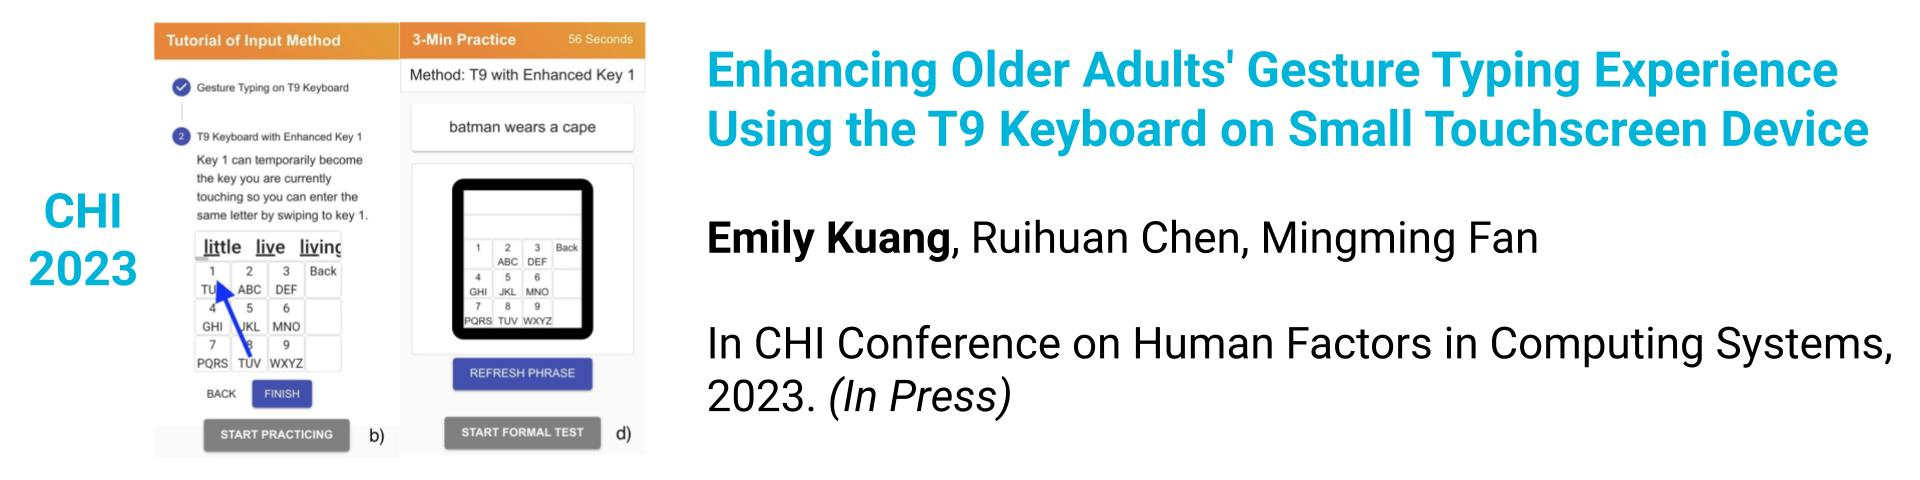
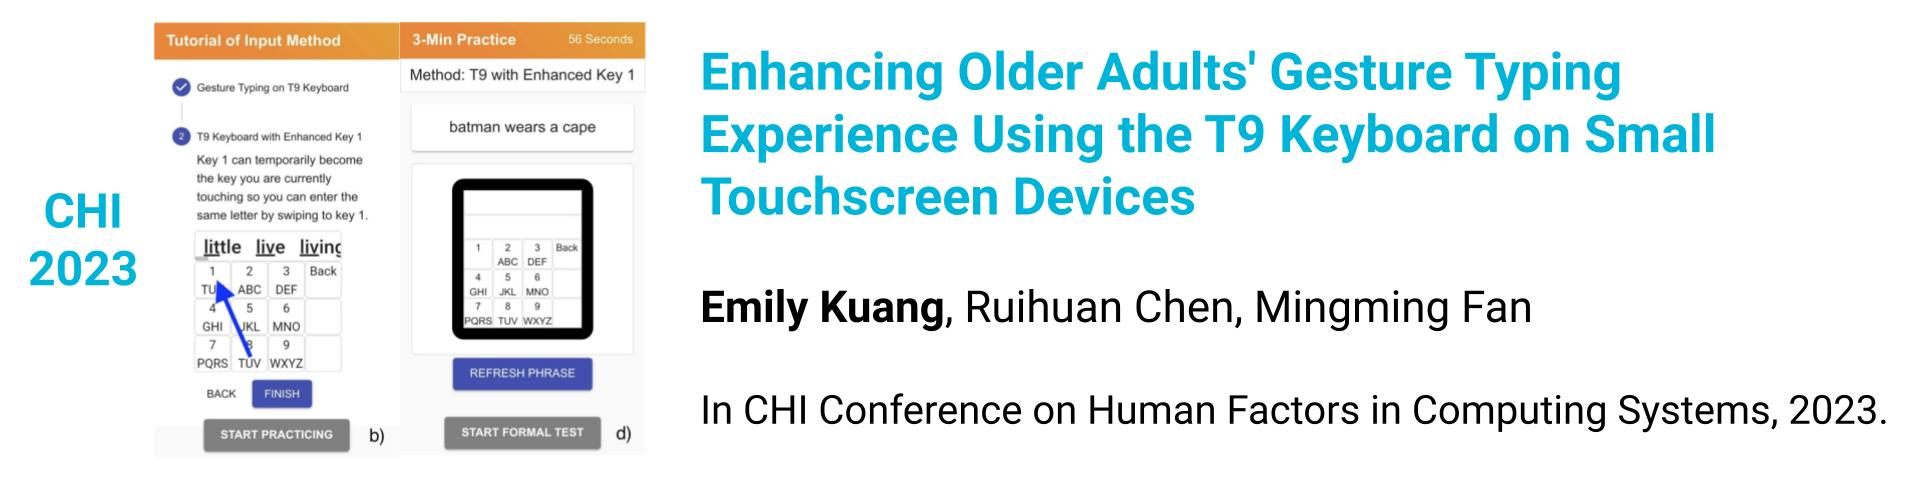
Update cover photo and new publication

diff --git a/index.html b/index.html
@@ -176,18 +176,19 @@
               <p> 
                 My research explores the intersection of <b><font color='#00b4d9'>Human-Computer Interaction (HCI), Artificial Intelligence (AI)</font></b>, and <b><font color='#00b4d9'>User Experience (UX)</font></b>. 
                 I design, evaluate, and improve human-AI collaborative tools to support usability and UX analysis. 
-                Other topics that I investigate include how to infuse accessibility into computing courses and how to make technology more accessible for older adults. 
+                Other topics that I investigate include how to infuse accessibility into computing courses and how to make technology more accessible for older adults and blind and low vision people. 
               <p><br>
               <p>
                 If you would like to talk about my work or get connected, don't hesistate to send me an e-mail or connect via LinkedIn.
               </p><br>
 
-              <font size="+1"><b>Recent News</b></font>
+              <font size="+2"><b>Recent News</b></font>
               <ol>
+                <li><font color='#00b4d9'>Aug 2023:</font> I completed my UX research internship at <a href="https://about.meta.com/realitylabs/">Meta Reality Labs</a> in Seattle!</li>
                 <li><font color='#00b4d9'>Apr 2023:</font> I presented 2 papers and 1 poster at <a href="https://chi2023.acm.org/">CHI 2023</a> in Hamburg, Germany!</li>
                 <li><font color='#00b4d9'>Oct 2022:</font> I attended the <a href="https://www.rit.edu/aisummit">AI@RIT Summit</a> and presented a poster!</li>
                 <li><font color='#00b4d9'>May 2022:</font> I was a student volunteer and presented my paper at <a href="https://chi2022.acm.org/">CHI 2022</a> in New Orleans.</li>
-                <li><font color='#00b4d9'>April 2022:</font> I attended the <a href="https://cra.org/cra-wp/grad-cohort-for-women">Grad Cohort Workshop for Women</a> in New Orleans!</li>
+                <!-- <li><font color='#00b4d9'>April 2022:</font> I attended the <a href="https://cra.org/cra-wp/grad-cohort-for-women">Grad Cohort Workshop for Women</a> in New Orleans!</li> -->
               </ol>
 
             </div>
@@ -227,6 +228,14 @@
 
           <!-- Portfolio Recent Projects -->
           <div id="portfolio" class="row wow fadeInDown" data-wow-delay="0.4s">
+            <div class="col-sm-12 col-md-12 col-lg-6 col-xl-6 mix accessibility">
+              <div class="portfolio-item">
+                <div class="shot-item">
+                  <img src="assets/img/gallery/ASSETS23-DDA.jpg" alt="ASSETS 2023, 
+                  Understanding Strategies and Challenges of Conducting Daily Data Analysis (DDA) Among Blind and Low-vision People"/>
+                </div>
+              </div>
+            </div>
             <div class="col-sm-12 col-md-12 col-lg-6 col-xl-6 mix ux">
               <div class="portfolio-item">
                 <div class="shot-item">
@@ -486,9 +495,9 @@
                 <li>
                   <div class="content-text">
                     <h3 class="line-title">UX Research Intern - Meta Reality Labs</h3>
-                    <span>May 2022 - Aug 2022</span>
-                    <p class="line-text">- Worked on the AR Hardware UXR Team</a></p>
-                    <p class="line-text">- Designed and conducted a user study to investigate audio performance and experiences on a new product</a></p>
+                    <span>May 2022 - Aug 2022 and May 2023 - Aug 2023</span>
+                    <p class="line-text">- Worked on the Hardware UXR Team</a></p>
+                    <p class="line-text">- Designed and conducted user studies on products in development</a></p>
                   </div>
                 </li>
                 <li>
@@ -497,14 +506,6 @@
                     <span>May 2021 - Aug 2021</span>
                     <p class="line-text">- Worked on the <a href="https://www.darpa.mil/program/automating-scientific-knowledge-extraction">DARPA Automating Scientific Knowledge Extraction (ASKE) program</a></p>
                     <p class="line-text">- Designed and contributed to the <a href="https://github.com/uncharted-aske/HMI">human-machine interface (HMI)</a></p>
-                  </div>
-                </li>
-                <li>
-                  <div class="content-text">
-                    <h3 class="line-title">Research Engineer - Huawei Technologies</h3>
-                    <span>Jan 2019 - Aug 2020</span>
-                    <p class="line-text">- Worked in the Toronto Human Machine Interaction Lab</p>
-                    <p class="line-text">- Developed prototypes employing novel interaction techniques and conducted user experiments</p>
                   </div>
                 </li>
               </ul>

diff --git a/assets/css/main.css b/assets/css/main.css
@@ -716,7 +716,7 @@ a.back-to-top:hover, a.back-to-top:focus {
 3. Hero Area
 ========================================================================== */
 .hero-area-bg {
-  background: url(../img/hero-area.jpg) no-repeat;
+  background: url(../img/DreamShaper_v7.jpg) no-repeat;
   background-size: cover;
 }
 
@@ -733,7 +733,7 @@ a.back-to-top:hover, a.back-to-top:focus {
   top: 0px;
   left: 0px;
   background: #0c0808;
-  opacity: 0.6;
+  opacity: 0.1;
 }
 
 #hero-area .contents {
